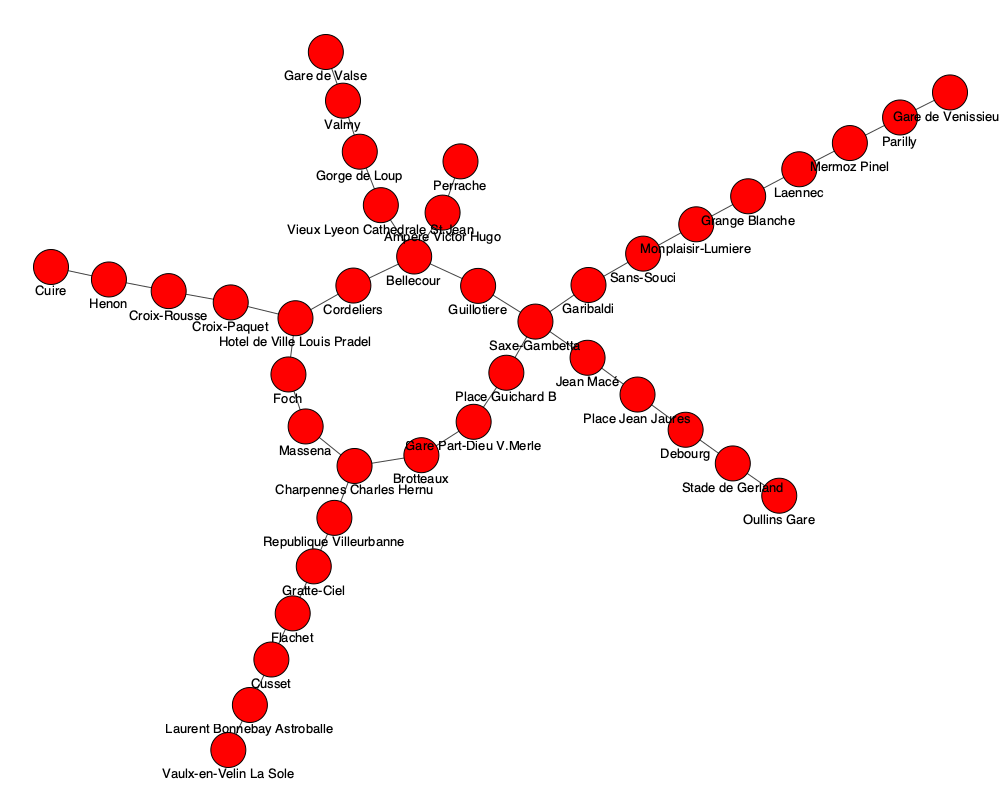
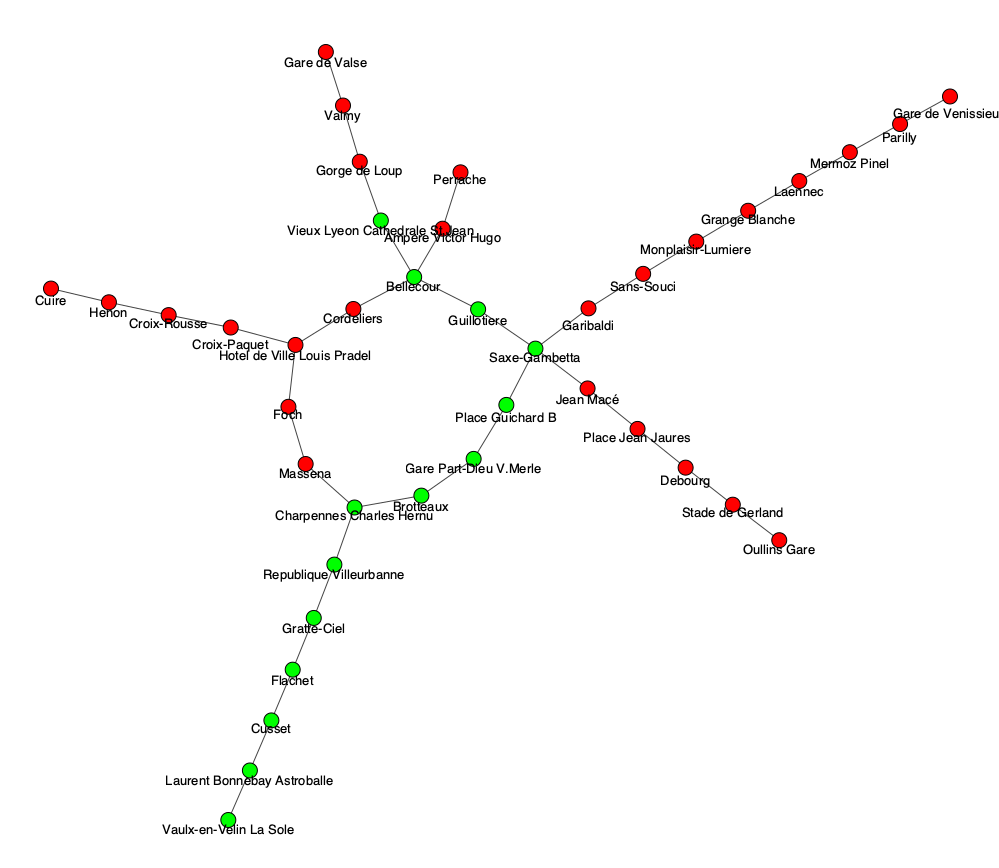
finish

Changed region(s): [[0.031, 0.0301, 1.0, 0.9925]]

diff --git a/AlgorithmAStar.py b/AlgorithmAStar.py
@@ -1,5 +1,4 @@
-
-from tkinter import ttk
+from tkinter import messagebox, ttk
 import igraph 
 from igraph import* 
 import csv
@@ -11,6 +10,7 @@ from matplotlib.figure import Figure
 import tkinter as tk
 import random
 from igraph.drawing.text import *
+from tkinter import scrolledtext
 
 class Nodo:     
     def __init__(self, estacion, g = 0, h = 0):  
@@ -28,29 +28,33 @@ class AutoCanvasUpdaterApp:
     heuristica={}
     aristas = []
     pesos = []
-    origen=None
-    destino=None
+   
     ejec = False
     res = True
     color = []
-    def __init__(self, master):
+    def __init__(self, master,canvas,frame,output_box):
+         
+        self.master = master
+        self.canvas = canvas
+        self.frame = frame
+        self.output_box = output_box
+        
+        self.imprime("procesando datos")
         self.readFileEstacion()
         self.readFileArista()
         self.construirGrafo()
 
-        self.master = master
-        self.master.title("A star ")
+      
 
-        self.master.geometry("1920x1080")
-        self.master.configure(background="black")
+        tk.Label(self.frame, text="ORIGEN:").pack(side=tk.LEFT)
+        self.cBoxOrigen = ttk.Combobox(self.frame, values=self.nombreEstacion)
+        self.cBoxOrigen.pack(side=tk.LEFT, padx=10)
+       
+        tk.Label(self.frame, text="DESTINO:").pack(side=tk.LEFT)
+        self.cBoxDestino = ttk.Combobox(self.frame, values=self.nombreEstacion)
+        self.cBoxDestino.pack(side=tk.LEFT, padx=10)
 
-        # Crear un lienzo
-        frame = tk.Frame(self.master)
-        frame.pack(side=tk.TOP, expand=True, fill=tk.BOTH)
 
-        self.canvas = tk.Canvas(frame, bg="white")
-        self.canvas.pack(expand=True, fill=tk.BOTH)
-        
         # Inicializar el contenido del lienzo
         self.igraph_plot = Plot()
         self.igraph_plot.add(self.grafo, layout="kk")
@@ -64,7 +68,7 @@ class AutoCanvasUpdaterApp:
     def auto_update_canvas(self):
         
         self.canvas.delete("all")
-        igraph_plot = plot(self.grafo, bbox=(1, 2, 1000, 800), margin=50)
+        igraph_plot = plot(self.grafo, bbox=(1, 2, 1000, 870), margin=50)
         igraph_plot.save("graph_plot.png")
         image = tk.PhotoImage(file="graph_plot.png")
         self.canvas.create_image(0, 0, anchor=tk.NW, image=image)
@@ -116,8 +120,8 @@ class AutoCanvasUpdaterApp:
         self.grafo.es["pesos"] = self.pesos   # Pesos de las arista   
         self.grafo.vs["color"] = self.color
         self.grafo.vs["label"] = self.nombreEstacion
-        self.grafo.vs["size"] = 35
-        self.grafo.vs["label_dist"] = 1.1
+        self.grafo.vs["size"] = 15
+        self.grafo.vs["label_dist"] = self.pesos
         self.grafo.vs["label_size"] = 13
     """" separador """
     def algoritmoAStar(self,Inicio,Destino):
@@ -140,11 +144,11 @@ class AutoCanvasUpdaterApp:
             index=self.nombreEstacion.index(nodoActual.estacion["name"])
             self.grafo.vs[index]["color"] = "black"
 
-            #print(nodoActual.estacion["name"])
-            #print(nodoActual.f)
-            #print(nodoActual.g)
-            #print(nodoActual.h)
-            #print("----------")
+            self.imprime("nodo actual: "+nodoActual.estacion["name"]+"\n")
+            self.imprime("g: "+str(nodoActual.g)+" ")
+            self.imprime("f: "+str(nodoActual.f)+" ")
+            self.imprime("h: "+str(nodoActual.h))
+            self.imprime("\n")
 
             self.auto_update_canvas()
             self.master.update()
@@ -174,9 +178,15 @@ class AutoCanvasUpdaterApp:
                     self.master.update()
 
                     nodo = nodo.padre
+                self.imprime("\n")
+                self.imprime("El camino optimo es: \n")
+                for estacion in reversed(ruta):
+                     self.imprime(estacion+"\n")
+                self.imprime("\n")
+                self.imprime("Distancia total: " + str(round(coste,2))+ " Km\n")
+
                 return ruta,coste
             else:
-                
                 listaNodoCerrado.update({nodoActual.estacion["name"]:nodoActual})
                 del listaNodoAbierto[nodoActual.estacion["name"]]
                 self.explorarVecino(listaNodoAbierto,listaNodoCerrado,nodoActual)
@@ -218,20 +228,63 @@ class AutoCanvasUpdaterApp:
             else:
                 listaNodoAbierto.update({estacion["name"]:nodo})
 
+    def resetCombobox(self):
+        self.cBoxDestino.set("")
+        self.cBoxOrigen.set("")
+    
+    def pintarOrigen(self,event):
+       
+        if("pink" in self.color):
+            indexC = self.color.index("pink")
+            self.color[indexC] = "red"
+        origen=self.cBoxOrigen.get()
+        index = self.nombreEstacion.index(origen)
+        self.color[index] = "pink"
+        self.grafo.vs["color"] = self.color
+        self.auto_update_canvas()
+    
+    def pintarDestino(self,event):
+       
+        if("orange" in self.color):
+            indexC = self.color.index("orange")
+            self.color[indexC] = "red"
+        origen=self.cBoxDestino.get()
+        index = self.nombreEstacion.index(origen)
+        self.color[index] = "orange"
+        self.grafo.vs["color"] = self.color
+        self.auto_update_canvas()
+    
+    def imprime(self,texto):
+        self.output_box.config(state=tk.NORMAL)  
+        self.output_box.insert(tk.END, texto)
+        self.output_box.config(state=tk.DISABLED)
+    def clear(self):
+        # Restablecer el contenido del Text widget (borrar todo el contenido)
+        self.output_box.config(state=tk.NORMAL)  # Configurarlo como editable
+        self.output_box.delete("1.0", tk.END)  # Borrar desde la línea 1, carácter 0 hasta el final
+        self.output_box.config(state=tk.DISABLED)
+
 def boton():
-        inicio = origen.get()
-        final =  destino.get()
-        if (app.res and (not app.ejec)) : 
-            app.res = False
-            app.ejec = True
-            app.algoritmoAStar(inicio, final)
-            app.ejec = False
+        inicio = app.cBoxOrigen.get()
+        final =  app.cBoxDestino.get()
+        app.grafo.vs["color"] = app.color
+        if inicio and final: 
+            if (app.res and (not app.ejec)) :
+                app.clear()
+                app.res = False
+                app.ejec = True
+                app.algoritmoAStar(inicio, final)
+                app.ejec = False
+        else:
+            messagebox.showinfo("Mensaje", f"selecciona Origen y Destino")
+
 
 def restart():
         if(not app.ejec):
             app.res = True
             app.draw_initial_content()
-
+            app.resetCombobox()
+            app.color=['red','red','red','red','red','red','red', 'red','red','red','red','red','red','red','red', 'red', 'red','red','red','red','red','red','red', 'red', 'red','red','red','red','red','red','red', 'red', 'red','red','red','red','red','red','red', 'red', 'red','red','red','red','red','red','red', 'red']
 
 def obtenerNombre():
     with open('estaciones.csv', mode='r') as file:
@@ -246,24 +299,28 @@ def obtenerNombre():
             # Agrega el valor de la columna "Estacion" a la lista
             nombre.append(row[1])
     return nombre
-    
 
 if __name__ == "__main__":
     root = tk.Tk()
     origen = tk.StringVar(root)
-    destino = tk.StringVar(root) 
+    destino = tk.StringVar(root)
+    root.title("A star ")
+    root.geometry("2560x1664")
+    root.configure(background="black")
+    frame = tk.Frame(root)
+    frame.pack(side=tk.BOTTOM, expand=True, fill=tk.BOTH)
+    canvas = tk.Canvas(frame, bg="white")
+    canvas.pack(side=tk.LEFT,expand=True, fill=tk.BOTH)
+    output_box = scrolledtext.ScrolledText(root, height=56, width=60, state=tk.DISABLED)
+    output_box = tk.Text(frame, height=56, width=60, state=tk.DISABLED)
+    output_box.pack(side=tk.RIGHT)
 
     frame = tk.Frame(root)
     frame.pack(side=tk.TOP, fill=tk.BOTH)
-
-    nombre = obtenerNombre()
     
-    tk.Button(frame,text="START!",font=("Courier", 14),bg="#00a8e8",fg="blue",command=boton,height=2,width=15).pack(side=tk.LEFT)
-    tk.Button(frame,text="RESTART!",font=("Courier", 14),bg="#00a8e8",fg="blue",command=restart,height=2,width=15).pack(side=tk.LEFT)
-    tk.Label(frame, text="ORIGEN:").pack(side=tk.LEFT)
-    ttk.Combobox(frame,textvariable=origen, values=nombre).pack(side=tk.LEFT)
-    tk.Label(frame, text="DESTINO:").pack(side=tk.LEFT)
-    ttk.Combobox(frame,textvariable=destino, values=nombre).pack(side=tk.LEFT)
-
-    app = AutoCanvasUpdaterApp(root)
+    bStar=tk.Button(frame,text="START!",font=("Courier", 14),bg="#00a8e8",fg="blue",command=boton,height=2,width=15).pack(side=tk.LEFT)
+    bRestar = tk.Button(frame,text="RESTART!",font=("Courier", 14),bg="#00a8e8",fg="blue",command=restart,height=2,width=15).pack(side=tk.LEFT)
+    app = AutoCanvasUpdaterApp(root,canvas,frame,output_box)
+    app.cBoxOrigen.bind("<<ComboboxSelected>>", app.pintarOrigen)
+    app.cBoxDestino.bind("<<ComboboxSelected>>", app.pintarDestino)
     root.mainloop()
